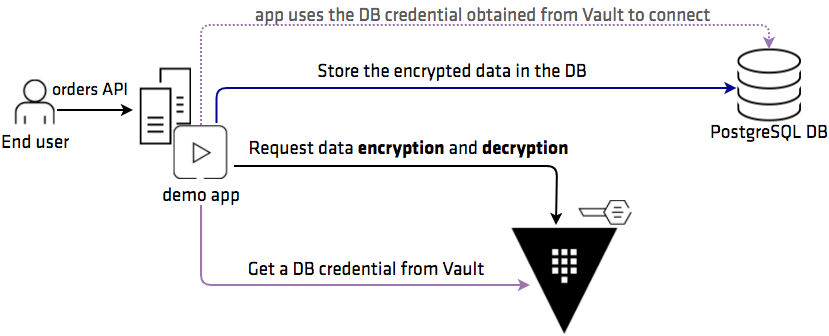
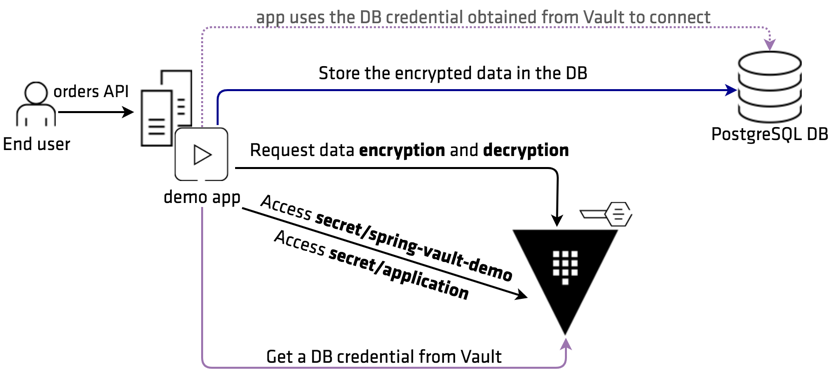
Added 'Reloading the Static Secrets' step

Changed region(s): [[0.0, 0.0298, 1.0, 1.0]]

diff --git a/website/source/guides/encryption/spring-demo.html.md b/website/source/guides/encryption/spring-demo.html.md
@@ -55,8 +55,9 @@ while an organization is facing a constant threat.
 ## Solution
 
 Vault centralizes management of cryptographic services used to protect your
-data.  Your system can communicate with Vault easily through Vault API and the
-encryption keys never have to leave the Vault.
+data.  Your system can communicate with Vault easily through Vault API to
+encrypt and decrypt your data, and the encryption keys never have to leave the
+Vault.
 
 ![Encryption as a Service](/assets/images/vault-eaas.png)
 
@@ -95,6 +96,7 @@ In this guide, you perform the following:
 1. [Review the demo application implementation](#step1)
 2. [Deploy and review the demo environment](#step2)
 3. [Run the demo application](#step3)
+4. [Reloading the Static Secrets](#tep4)
 
 ![Encryption as a Service](/assets/images/vault-java-demo-10.png)
 
@@ -174,6 +176,8 @@ public class VaultDemoOrderServiceApplication  {
 	}
 }
 ```
+
+The `OrderAPIController` class defines the API endpoint (`api/orders`).
 
 
 ### <a name="step2"></a>Step 2: Deploy and review the demo environment
@@ -483,7 +487,7 @@ manner (e.g. "James" and "John").
 Now, retrieve the order data via the orders API:
 
 ```plaintext
-[vagrant@demo ~]$ curl --request GET --header "Content-Type: application/json" \
+[vagrant@demo ~]$ curl --header "Content-Type: application/json" \
                        http://localhost:8080/api/orders | jq
 [
  {
@@ -528,6 +532,149 @@ Finally, click **Decode from base64** to reveal the customer name.
 ![Web UI](/assets/images/vault-java-demo-8.png)
 
 
+### <a name="step4"></a>Step 4: Reloading the Static Secrets
+
+Now, let's test another API endpoint, **`api/secret`** provided by the demo app.
+A plain old Java object, `Secret` defines a get method for `key` and `value`.
+The `SecretController.java` defines an API endpoint, **`api/secret`**.  
+
+```plaintext
+package com.hashicorp.vault.spring.demo;
+...
+
+@RefreshScope
+@RestController
+public class SecretController {
+
+	@Value("${secret:n/a}")
+	String secret;
+
+	@RequestMapping("/api/secret")
+	public Secret secret() {
+		return new Secret("secret", secret);
+	}
+}
+```
+
+Remember from [Step 2](#task-2-examine-the-vault-environment) that the
+**`order`** policy granted permissions on the `secret/spring-vault-demo` path.
+
+```plaintext
+path "secret/spring-vault-demo" {
+  capabilities = ["create", "read", "update", "delete", "list"]
+}
+...
+```
+<br>
+
+The demo app retrieved the secret from `secret/spring-vault-demo` and have a
+local copy.  If someone or perhaps another app updates the secret, it makes the
+secret held by the demo app to be obsolete.
+
+![Static Secret](/assets/images/vault-java-demo-11.png)
+
+Spring offers [Spring Boot
+Actuator](https://docs.spring.io/spring-boot/docs/current/reference/htmlsingle/#production-ready)
+which can be used to facilitate the reloading of the static secret.
+
+#### Task 1: Read the secret
+
+The initial key-value was set by the Vagrant during the provisioning. (See the
+`Vagrantfile` at line 48.)
+
+Let's invoke the demo app's secret API (**`api/secret`**):
+
+```plaintext
+$ curl -s http://localhost:8080/api/secret | jq
+{
+  "key": "secret",
+  "value": "hello-vault"
+}
+```
+
+This is the secret that the demo app knows about.
+
+
+#### Task 2: Update the Secrets
+
+Now, update the secret stored in Vault using API:
+
+```shell
+# Update the value via API
+$ curl --header "X-Vault-Token: root" \
+       --request POST \
+       --data '{ "secret": "my-api-key" }' \
+       http://127.0.0.1:8200/v1/secret/spring-vault-demo
+
+# Verify that the secret value was updated
+$ curl --header "X-Vault-Token: root" \
+       http://127.0.0.1:8200/v1/secret/spring-vault-demo | jq
+{
+ "request_id": "514601e4-a790-3dc6-14b0-537d6982a6c6",
+ "lease_id": "",
+ "renewable": false,
+ "lease_duration": 2764800,
+ "data": {
+   "secret": "my-api-key"
+ },
+...
+}
+```
+
+
+#### Task 3: Refresh the secret on demo app
+
+Run the demo app's secret API again:
+
+```plaintext
+$ curl -s http://localhost:8080/api/secret | jq
+{
+  "key": "secret",
+  "value": "hello-vault"
+}
+```
+
+The current value stored in Vault is now `my-api-key`; however, the demo app
+still holds `hello-vault`.  
+
+
+Spring provides an
+[actuator](https://docs.spring.io/spring-boot/docs/current/reference/htmlsingle/#production-ready)
+which can be leveraged to refresh the secret value.  At line 54 of the
+`vault-guides/secrets/spring-cloud-vault/pom.xml`, you see that the actuator was
+added to the project.
+
+```plaintext
+...
+<dependency>
+  <groupId>org.springframework.boot</groupId>
+  <artifactId>spring-boot-starter-actuator</artifactId>
+</dependency>
+...
+```
+
+Let's refresh the secret using the actuator:
+
+```plaintext
+$ curl -s --request POST http://localhost:8080/actuator/refresh | jq
+[
+  "secret"
+]
+```
+
+Read back the secret from the demo app again:
+
+```plaintext
+$ curl -s http://localhost:8080/api/secret | jq
+{
+  "key": "secret",
+  "value": "my-api-key"
+}
+```
+
+It should display the correct value.
+
+---
 
 When you are done exploring the demo implementation, you can destroy the virtual
 machine:
@@ -539,11 +686,14 @@ demo: Are you sure you want to destroy the 'demo' VM? [y/N] y
 ==> demo: Destroying VM and associated drives...
 ```
 
-
 ~> In the webinar, the demo environment was running in a public cloud, and Nomad
 and Consul were also installed and configured.  If you wish to build a similar
 environment using Kubernetes, the assets in the `vault-guides/secrets/spring-cloud-vault/kubernetes`
 folder provides you with some guidance.
+
+
+
+
 
 
 ## Next steps
